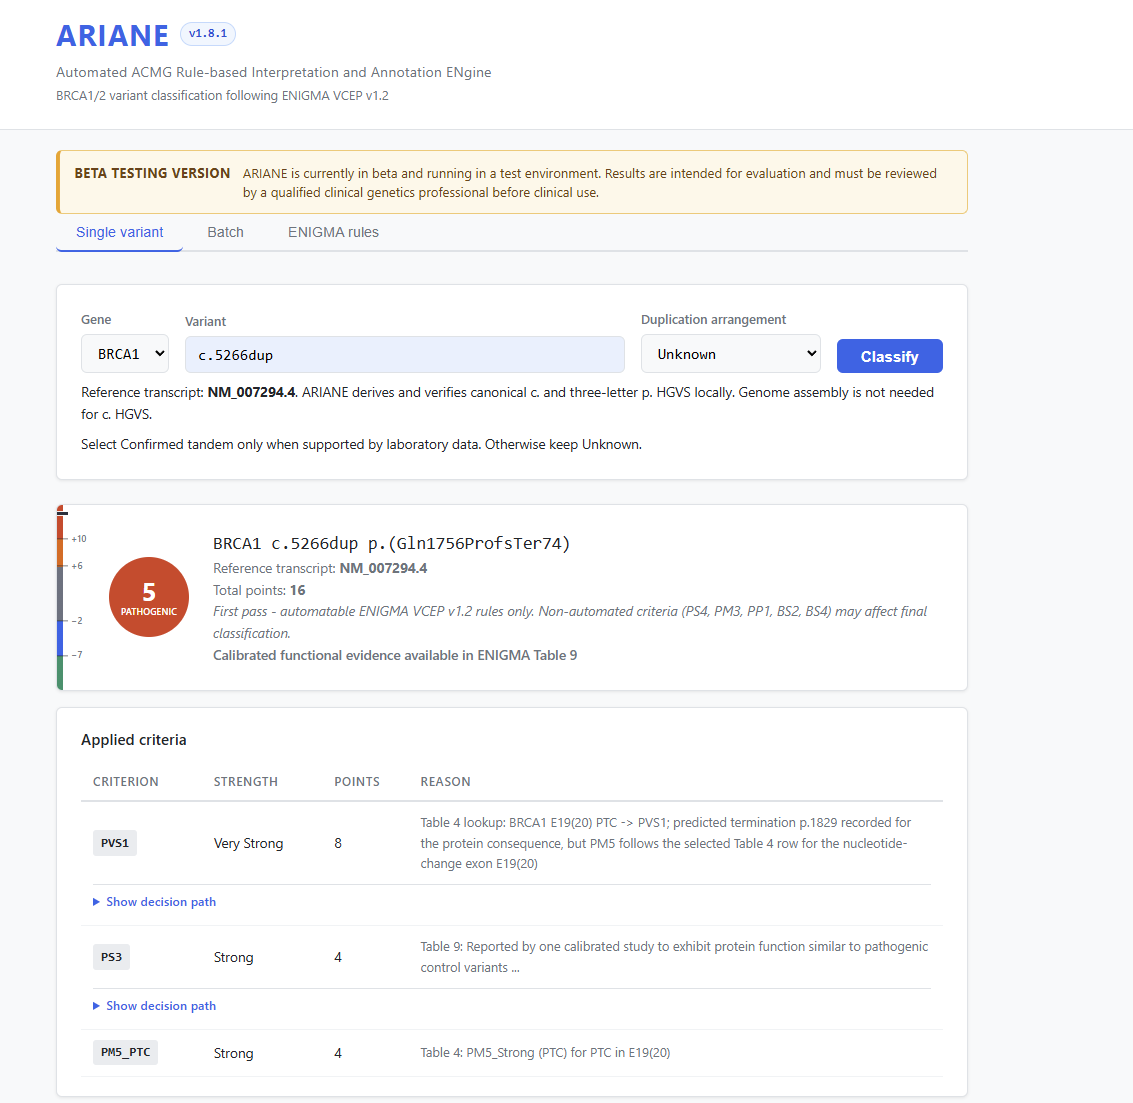
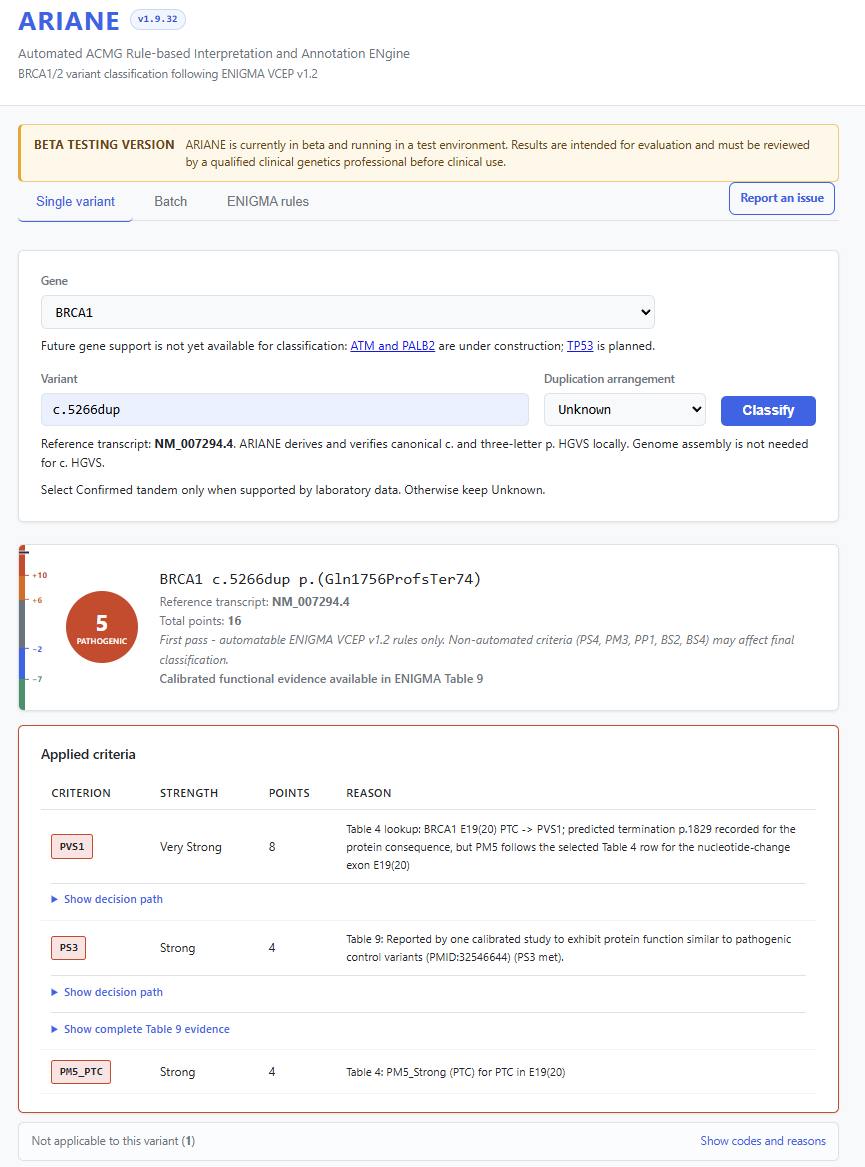
Add files via upload

diff --git a/ariane_content_en.js b/ariane_content_en.js
@@ -47,7 +47,7 @@ window.ARIANE_CONTENTS.en = {
       id: "what",
       kicker: "Slide 2",
       title: "What ARIANE is",
-      layout: "product",
+      layout: "standard",
       left: [
         {
           type: "paragraphs",
@@ -64,6 +64,8 @@ window.ARIANE_CONTENTS.en = {
             "Returns criteria, strengths, reasons, sources, warnings and the classification"
           ]
         },
+      ],
+      right: [
         {
           type: "keyValues",
           items: [
@@ -82,15 +84,6 @@ window.ARIANE_CONTENTS.en = {
           ]
         }
       ],
-      right: [
-        {
-          type: "media",
-          label: "ARIANE web application",
-          description: "Classification result with applied criteria, strengths, points and reasons.",
-          src: "images/ariane-result.png",
-          alt: "ARIANE result for BRCA1 c.5266dup: Class 5 with PVS1 Very Strong, PS3 Strong and PM5 PTC Strong"
-        }
-      ],
       notes: [
         "Why software: the rules branch by variant type, transcript context and available evidence, and the evidence sits in tables, supplementary files, registries and databases that change over time. A single PVS1 or PM2 decision can depend on the variant type, the Table 4 row, SpliceAI under the Appendix J profile, the gnomAD release and population, whether an RNA record exists for the exact variant, and which specification version was active. Each of these is a place where two curators can diverge.",
         "Each criterion in the result has a reason and a source, for example the Table 4 row or the Table 9 record used. The decision path can be expanded for each criterion.",
@@ -99,8 +92,21 @@ window.ARIANE_CONTENTS.en = {
     },
 
     {
-      id: "implementation",
+      id: "screenshot",
       kicker: "Slide 3",
+      layout: "image-only",
+      title: "ARIANE result for BRCA1 c.5266dup",
+      src: "images/ariane-result.png",
+      alt: "ARIANE web interface showing the result for BRCA1 c.5266dup: class 5, PVS1 Very Strong from Table 4, PS3 Strong from Table 9 and PM5 for the premature termination codon, each with its reason and decision path.",
+      notes: [
+        "The result for BRCA1 c.5266dup. Class 5, with PVS1 Very Strong from Table 4, PS3 Strong from Table 9 and PM5 for the premature termination codon. Each row has its reason, and the decision path can be opened.",
+        "ARIANE is in beta. Every result still needs expert review. When a rule needs something ARIANE does not have, the result says so. Missing evidence is never counted as evidence against."
+      ]
+    },
+
+    {
+      id: "implementation",
+      kicker: "Slide 4",
       title: "Implemented criteria",
       layout: "standard",
       left: [
@@ -144,7 +150,7 @@ window.ARIANE_CONTENTS.en = {
 
     {
       id: "levels",
-      kicker: "Slide 4",
+      kicker: "Slide 5",
       title: "Three levels of automation",
       layout: "wide",
       blocks: [
@@ -207,7 +213,7 @@ window.ARIANE_CONTENTS.en = {
 
     {
       id: "example",
-      kicker: "Slide 5",
+      kicker: "Slide 6",
       title: "Presentation of the ARIANE application",
       layout: "wide",
       blocks: [
@@ -247,12 +253,12 @@ window.ARIANE_CONTENTS.en = {
             {
               label: "Manual",
               title: "Evidence entered by the expert",
-              variant: "Same variant, PP1 form",
+              variant: "BRCA1 c.5425G>T p.(Val1809Phe), PP1 form",
               items: [
-                "Reviewer enters the co-segregation LR and its components",
-                "Supporting at LR 2.08, Moderate at 4.3, Strong at 18.7",
-                "Very Strong at 350 only with a demonstrated splicing or protein effect",
-                "Independence of components confirmed by the reviewer"
+                "Automated result: PM2 Supporting, PS3 Strong from Table 9 (two calibrated studies), 5 points, Class 3",
+                "Reviewer enters the co-segregation LR of each family: 14.17 and 1.67 from two families (Goldgar 2005, PMID 15689452), and confirms their independence",
+                "ARIANE multiplies the components: 23.66, Strong (thresholds 2.08, 4.3, 18.7, 350)",
+                "Amended result: PP1 Strong, 9 points, Class 4. ENIGMA in ERepo: Likely Pathogenic with the same criteria"
               ],
               result: "Strength derived by ARIANE. No manual override."
             }
@@ -278,7 +284,7 @@ window.ARIANE_CONTENTS.en = {
 
     {
       id: "provenance",
-      kicker: "Slide 6",
+      kicker: "Slide 7",
       title: "Every classification has its provenance",
       layout: "standard",
       left: [
@@ -318,7 +324,7 @@ window.ARIANE_CONTENTS.en = {
 
     {
       id: "updates",
-      kicker: "Slide 7",
+      kicker: "Slide 8",
       title: "System for updates of criteria and sources",
       layout: "standard",
       left: [
@@ -360,7 +366,7 @@ window.ARIANE_CONTENTS.en = {
 
     {
       id: "architecture",
-      kicker: "Slide 8",
+      kicker: "Slide 9",
       title: "Architecture of the engine",
       layout: "standard",
       left: [
@@ -406,7 +412,7 @@ window.ARIANE_CONTENTS.en = {
 
     {
       id: "genes",
-      kicker: "Slide 9",
+      kicker: "Slide 10",
       title: "Ready for other genes",
       layout: "standard",
       left: [
@@ -439,7 +445,7 @@ window.ARIANE_CONTENTS.en = {
 
     {
       id: "validation",
-      kicker: "Slide 10",
+      kicker: "Slide 11",
       title: "What we lack: a validation set",
       layout: "standard",
       left: [
@@ -469,7 +475,7 @@ window.ARIANE_CONTENTS.en = {
 
     {
       id: "literature",
-      kicker: "Slide 11",
+      kicker: "Slide 12",
       title: "Phase 2: evidence from structured sources and literature",
       layout: "literature",
       left: [
@@ -522,7 +528,7 @@ window.ARIANE_CONTENTS.en = {
 
     {
       id: "ask",
-      kicker: "Slide 12",
+      kicker: "Slide 13",
       title: "What we ask from ENIGMA",
       layout: "standard",
       left: [
